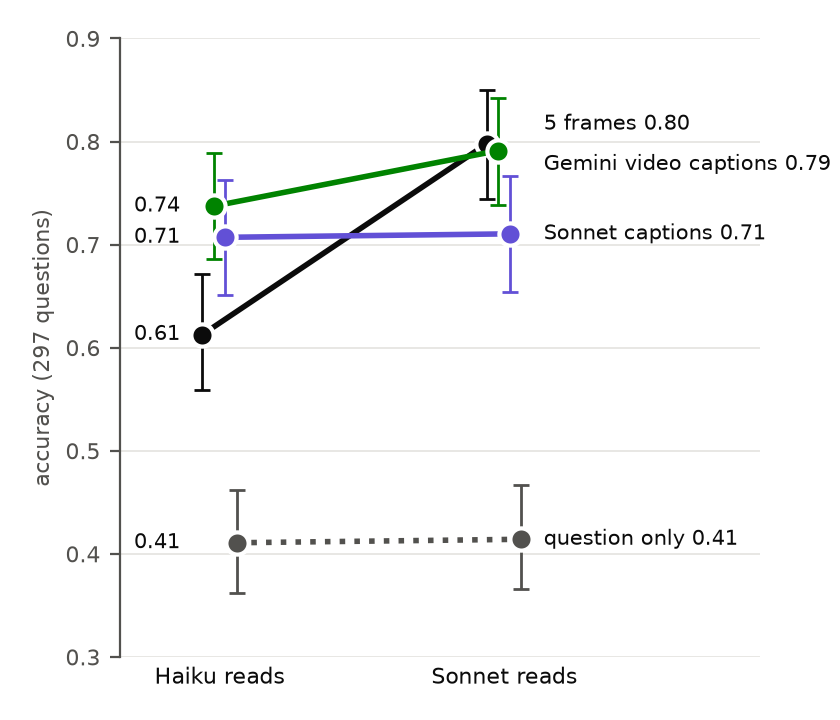
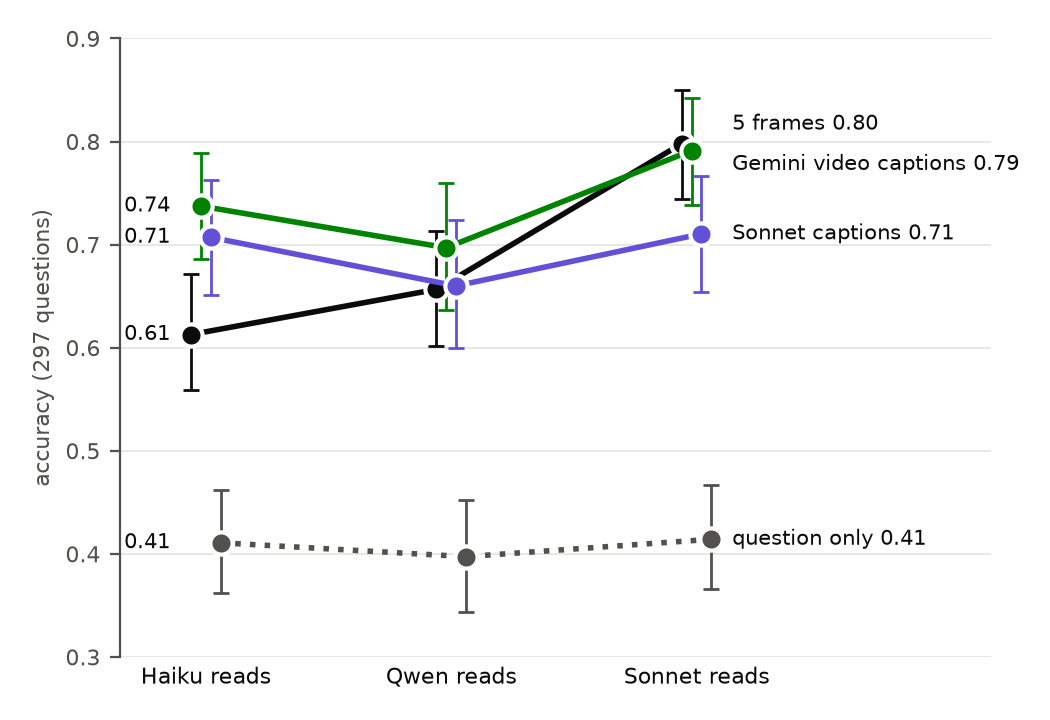
index_qa: Fig. 3 shows Qwen as a third reader, readers ordered by accuracy on frames; wider figure for three readers

diff --git a/scripts/index_qa/plots.py b/scripts/index_qa/plots.py
@@ -161,13 +161,15 @@ def cmd_readers(args):
              ("sonnetcaptions", ARM_COLOR["haiku:sonnetcaptions"], "-"), ("blind", MUTED, ":")]
     names = {"frames5": "5 frames", "captions": "Gemini video captions", "sonnetcaptions": "Sonnet captions",
              "blind": "question only"}
-    fig, ax = plt.subplots(figsize=(4.2, 3.6))
+    # readers in order of their accuracy on frames; Qwen (C12) only once its rows exist
+    readers = [m for m in ("haiku", "qwen", "sonnet") if f"{m}:frames5" in wide]
+    fig, ax = plt.subplots(figsize=(2.1 + 1.05 * len(readers), 3.6))
     style(ax)
     ax.grid(False, axis="x")
     for i, (arm, color, ls) in enumerate(lines):
-        xs = [x + (i - 1.5) * 0.04 for x in (0, 1)]  # dodge, so the CIs at one reader do not overlap
+        xs = [x + (i - 1.5) * 0.04 for x in range(len(readers))]  # dodge, so the CIs at one reader do not overlap
         pts = []
-        for x, model in zip(xs, ("haiku", "sonnet")):
+        for x, model in zip(xs, readers):
             col = wide[f"{model}:{arm}"].dropna()
             est, lo, hi = R.cluster_boot(col.tolist(), clus[col.index].tolist())
             pts.append(est)
@@ -176,13 +178,14 @@ def cmd_readers(args):
         ax.plot(xs, pts, color=color, linestyle=ls, linewidth=2, marker="o", markersize=8,
                 markeredgecolor="white", markeredgewidth=1.5, zorder=3)
         dy = {"frames5": 7, "captions": -5}.get(arm, 0)  # Sonnet on frames and on Gemini captions end 0.01 apart
-        ax.annotate(f"{names[arm]} {pts[1]:.2f}", (1.1, pts[1]), xytext=(4, dy), textcoords="offset points",
+        last = len(readers) - 1
+        ax.annotate(f"{names[arm]} {pts[-1]:.2f}", (last + 0.1, pts[-1]), xytext=(4, dy), textcoords="offset points",
                     fontsize=7.5, color=INK, va="center")
         ax.annotate(f"{pts[0]:.2f}", (-0.1, pts[0]), xytext=(-4, 0), textcoords="offset points", fontsize=7.5,
                     color=INK, va="center", ha="right")
-    ax.set_xticks([0, 1])
-    ax.set_xticklabels(["Haiku reads", "Sonnet reads"], fontsize=8, color=INK)
-    ax.set_xlim(-0.35, 1.9)
+    ax.set_xticks(range(len(readers)))
+    ax.set_xticklabels([f"{m.capitalize()} reads" for m in readers], fontsize=8, color=INK)
+    ax.set_xlim(-0.35, len(readers) + 0.2)
     ax.set_ylim(0.3, 0.9)
     ax.set_ylabel("accuracy (297 questions)", fontsize=8, color=MUTED)
     ax.spines["bottom"].set_visible(False)
